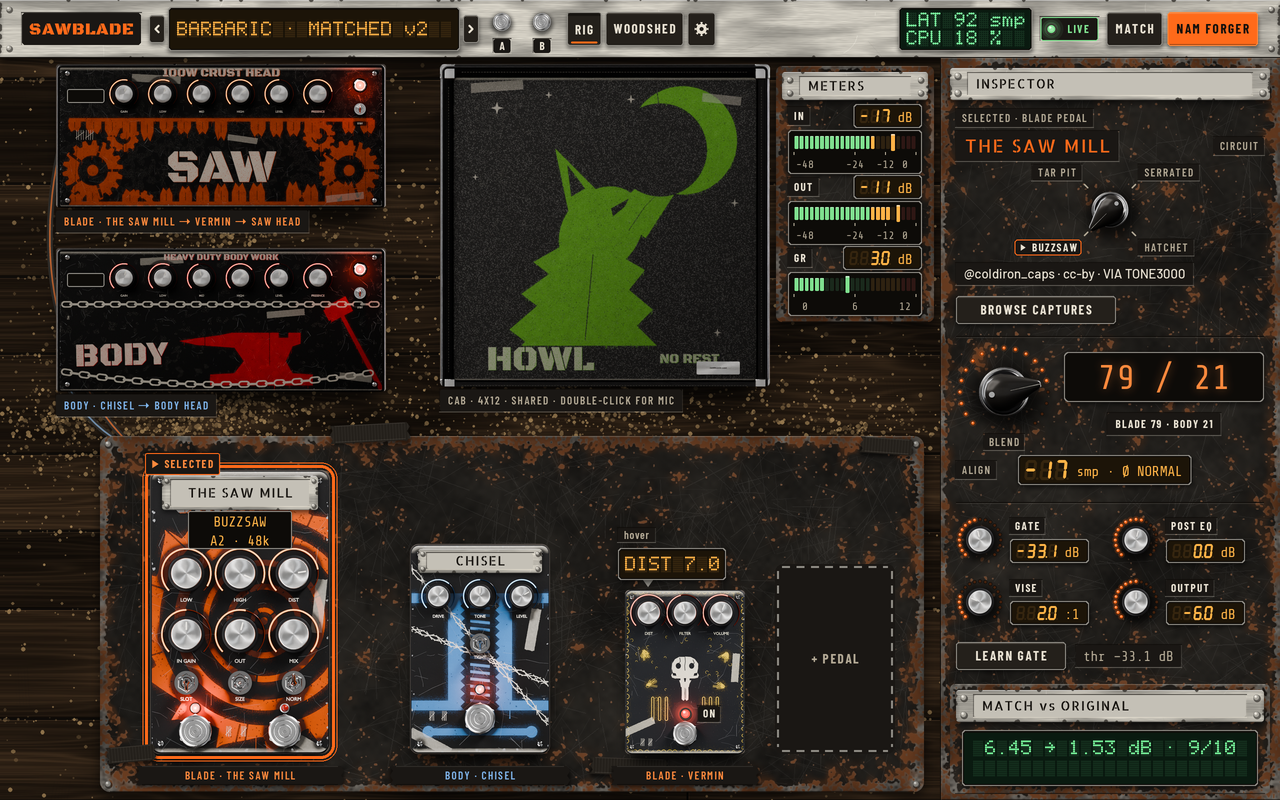
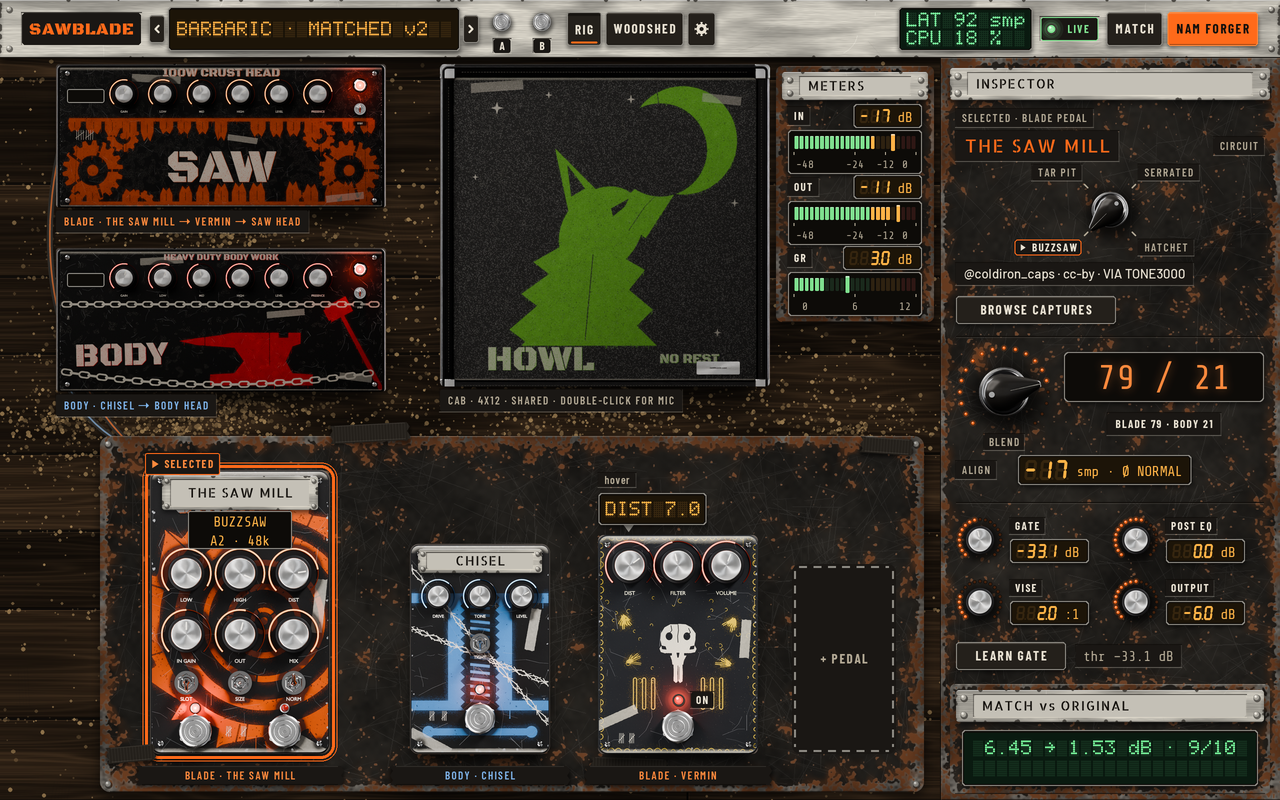
mockups: VERMIN at true scale on the 01 pedalboard
- 110 x 150 mm at ~1.45 px / mm (CHISEL 1.40, THE SAW MILL 1.50): 160 px wide; the remaining + PEDAL slot is narrowed and the board's right edge stays clear
- only 01_main_rig changes in the four sets

Claude-Session: https://claude.ai/code/session_01Xtcva4Boag1J55QcGzGRmV

Changed region(s): [[0.4688, 0.5938, 0.625, 1.0], [0.625, 0.8125, 0.6875, 0.8438]]

diff --git a/design/mockups/workshop/screens_rig.py b/design/mockups/workshop/screens_rig.py
@@ -69,7 +69,7 @@ VERMIN_LED = (226.0, 462.0)       # LED and DIST knob centres in that image's pi
 VERMIN_DIST = (86.0, 81.0)
 
 
-def vermin_pedal(cv, x, bottom, w=112):
+def vermin_pedal(cv, x, bottom, w=160):
     """Screen 01 only: VERMIN (rat-style distortion) from the pinned render, framed like the other pedals, with its path label.
     v3 adds a glowing LED lamp with its word and a hover tooltip (dot-matrix value) on the DIST knob.  Returns the pedal rect."""
     spr = ws.sprite_image(VERMIN_PNG, w, round_px=22)
@@ -132,10 +132,10 @@ def screen_01_main_rig(vermin=False):
     # empty slots: flat wells, dashed frames
     sy = body[3] - 190
     if vermin:
-        vermin_pedal(cv, 625, body[3], 120)
+        vermin_pedal(cv, 598, body[3], 160)        # 110 x 150 mm at ~1.45 px / mm, between CHISEL (1.40) and THE SAW MILL (1.50)
     else:
         ws.empty_slot(cv, (625, sy, 745, body[3]))
-    ws.empty_slot(cv, (775, sy, 895, body[3]))
+    ws.empty_slot(cv, (792, sy, 896, body[3]) if vermin else (775, sy, 895, body[3]))
 
     # ---- v3: the meter panel on the floor right of the cab ----------------------------------------------------------------
     if ws.is_v3():

diff --git a/design/mockups/workshop/README.md b/design/mockups/workshop/README.md
@@ -292,3 +292,5 @@ The 660 x 900 frame was cropped to the pedal body (box 32,42 - 628,858) and down
 Cycles output is not bit-reproducible across machines, so the committed PNG is the pinned input and the mockup render stays
 deterministic from it. `screens_rig.screen_01_main_rig(vermin=True)` is used by `01_main_rig` only; the backdrops of 03-08 call it
 without VERMIN and are unchanged.
+
+VERMIN is drawn at true scale: 110 x 150 mm at about 1.45 px / mm, between CHISEL (100 mm at 140 px, 1.40) and THE SAW MILL (120 mm at 180 px, 1.50).
